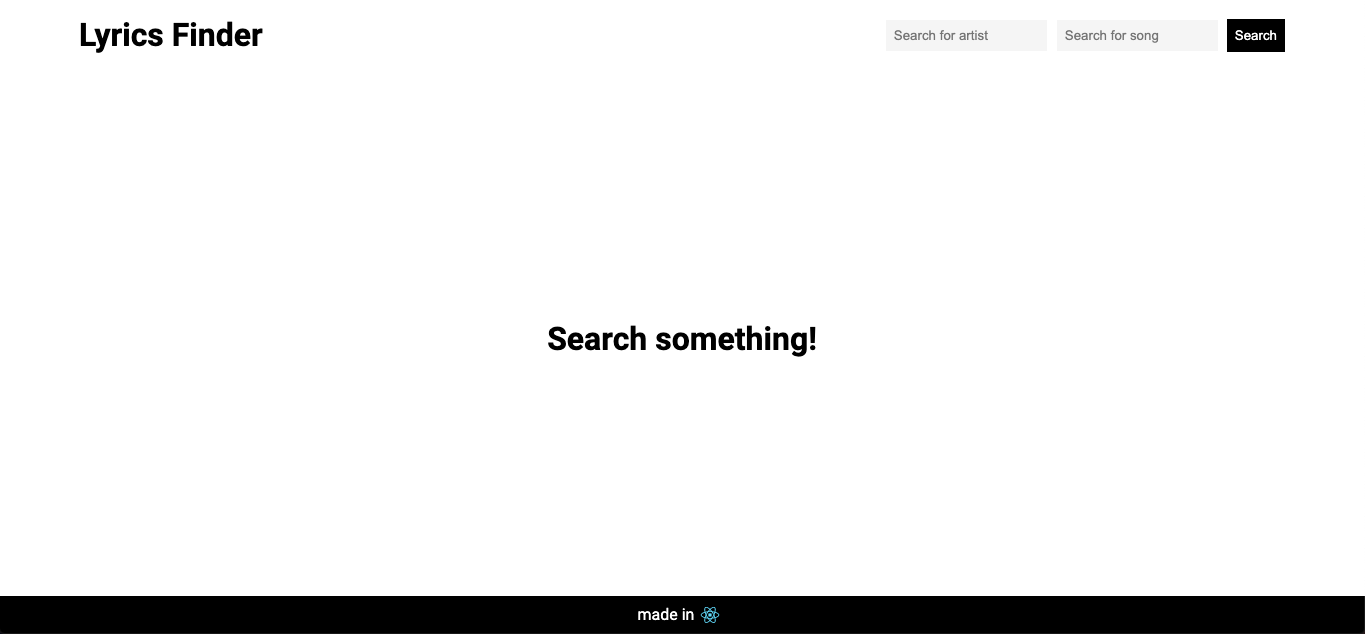
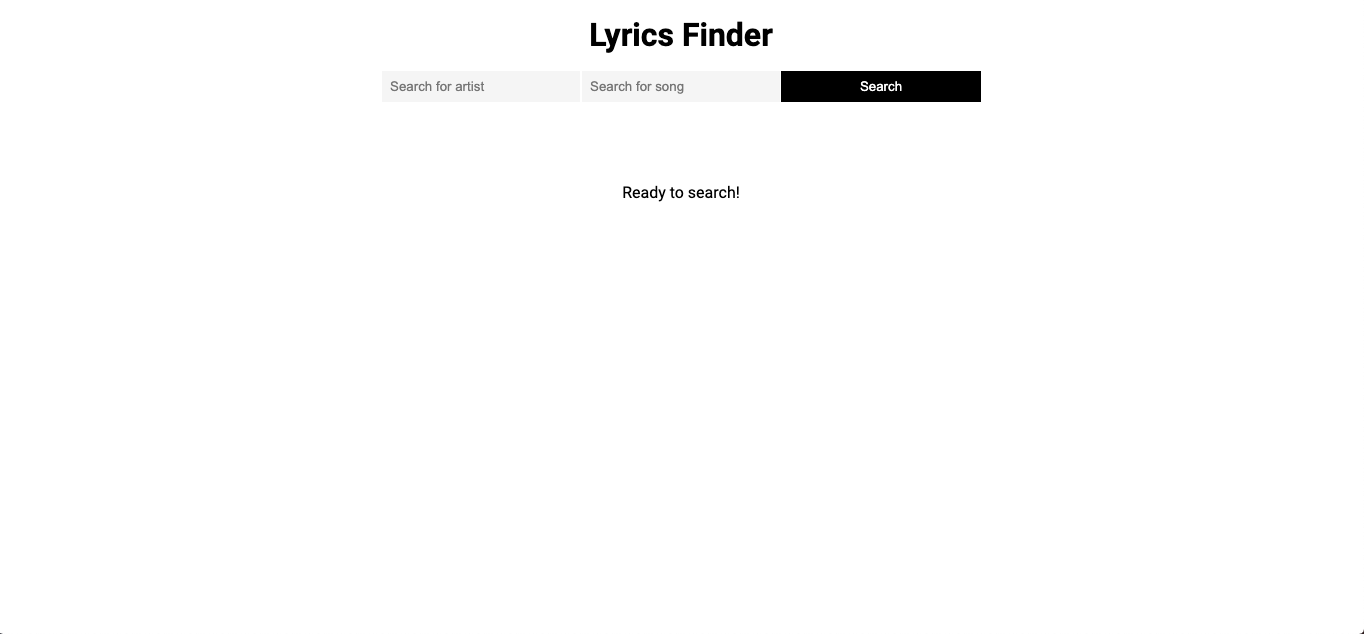
adding demo link in readme, changing screenshots, and styles

diff --git a/src/css/App.css b/src/css/App.css
@@ -17,26 +17,30 @@ html {
 body{
   font-family: 'Roboto', sans-serif;
 }
-
-.container{
-  padding: 1rem 5rem;
-  background-color: var(--main-bg-color);
-  height: 94vh;
+.app{
+  width: 100vw;
+  height: 100vh;
+  padding: 1rem;
 }
-/* HEADER */
-Header{
-  display: flex;
-  justify-content: space-between;
-  align-items: center;
+.center-txt{
+  text-align: center;
+}
+.center-txt p{
+  margin-top: 5rem;
+}
+h1,h2{
+  margin-bottom: 1rem;
+}
+img{
+  width: 100%;
+  border-radius: .5rem;
 }
 /* FORM */
-form{
-  display: flex;
-  gap: .5rem;
-}
+
 input{
   border: 0;
   padding: .5rem;
+  min-width: 200px;
 }
 input[type="search"]{
   background-color: var(--search-box-color);
@@ -53,122 +57,81 @@ input[type="submit"]{
 input[type="submit"]:hover{
   transform: scale(.9);
 }
-
-/* CONTENT */
-.content{
-  width: 100%;
-  height: 400px;
-  display: grid;
-  gap: .5rem;
-  grid-template-columns: repeat(2, 1fr);
-  align-items: center;
-  justify-items: center;
-  padding-top: 5rem;
-}
-.artist{
-  width: 100%;
-}
-.artist-content{
-  display: flex;
-  align-items: center;
-  gap: 1rem;
-  margin-top: 1rem;
-}
-.artist-content_image img{
-  border-radius: 2rem;
-  width: 300px;
-  height: auto;
-}
-.artist-content_info{
+/* ARTIST */
+.artist, .lyrics{
   display: flex;
   flex-direction: column;
-  height: 100%;
-  gap: 2.5rem;
+  align-items: center;
+  margin-top: .5rem;
+  padding-bottom: .5rem;
+}
+.artist-content_image{
+  width:200px;
+}
+/* hide information for small screens */
+.artist-content_info{
+  display: none;
 }
 .artist-content_info a{
   text-decoration: none;
   color: var(--black-color);
 }
 .artist-content_info a:hover{
-  background-color: var(--black-color);
-  color: var(--main-bg-color);
-  padding: .5rem;
+  color: crimson;
 }
+/* LYRICS */
 .lyrics{
-  width: 100%;
-  overflow-y: scroll;
-  height: 100%;
-  text-align: center;
+  padding: 1rem;
+  height: 400px;
+  background-color: var(--search-box-color);
+  border-radius: 2rem;
+  overflow-x: scroll;
 }
 .lyrics-wrap{
-  white-space: pre-wrap
-}
-.full{
-  display: flex;
-  justify-content: center;
-  align-items: center;
-  height: 90vh;
-}
-footer{
-  display: flex;
-  justify-content: center;
-  align-items: center;
-  background-color: var(--black-color);
-  color: var(--main-bg-color);
-  padding: 1rem;
-  height: 6vh;
-}
-.footer-logo{
-  width: 2rem;
+  white-space: pre-wrap;
 }
 
-/* MEDIA */
-@media (min-width: 300px) and (max-width: 900px) { 
-  .container{
-    padding: 1rem .2rem;
-  }
-  /* HEADER */
-  Header{
-    flex-direction: column;
-  }
-  form{
-    flex-direction: column;
-    gap: .2rem;
-  }
-  .content{
+/* MEDIA QUERIES TABLETS */
+@media (min-width: 768px){
+  .artist-content{
     width: 100%;
     display: flex;
-    flex-direction: column;
-    height: 70vh;
-    padding-top: 1rem;
-  }
-  .artist{
-    display: flex;
-    flex-direction: column;
-    align-items: center;
-  }
-  .artist h1{
-    font-size: 1.5rem;
-  }
-  .artist-content{
-    display: flex;
-    align-items: center;
     justify-content: center;
-    gap: 1rem;
-    margin-top: 1rem;
+    gap: 5rem;
   }
-  .artist-content_image img{
-    border-radius: 2rem;
-    width: 100px;
-    height: auto;
+  .artist-content_image{
+    width:250px;
   }
   .artist-content_info{
     display: flex;
     flex-direction: column;
-    height: 100%;
-    gap: .1rem;
+    justify-content: space-around;
   }
   .lyrics{
-    padding-top: 1rem;
+    height: 550px;
+  }
+}
+@media (min-width: 820px){
+  .lyrics{
+    height: 700px;
+  }
+}
+@media (min-width: 1024px){
+  .content{
+    margin-top: 1rem;
+    display: grid;
+    grid-template-columns: repeat(2, 1fr);
+    align-items: center;
+    height: 80vh;
+  }
+  .artist-content{
+    gap: 2rem;
+  }
+  .artist-content_image{
+    width: 350px;
+  }
+  .lyrics{
+    height: 450px;
+    overflow-x: hidden;
   }
 }

diff --git a/src/App.js b/src/App.js
@@ -1,6 +1,5 @@
 import React from "react";
 import Content from "./components/Content";
-import Footer from "./components/Footer";
 import Header from "./components/Header";
 import Loader from "./components/Loader";
 import "./css/App.css";
@@ -53,15 +52,14 @@ function App() {
 
   return (
     <div className="app">
-      <div className="container">
+      <div>
         <Header title="Lyrics Finder" handleSearch={handleSearch} />
         {loader ? (
-          <Loader className="content" />
+          <Loader />
         ) : (
           <Content search={search} artist={artistInfo} lyrics={songLyrics} />
         )}
       </div>
-      <Footer />
     </div>
   );
 }

diff --git a/src/components/Artist.jsx b/src/components/Artist.jsx
@@ -3,7 +3,7 @@ import React from "react";
 const Artist = ({ artist }) => {
   return (
     <div className="artist">
-      <h1>{artist.strArtist}</h1>
+      <h2>{artist.strArtist}</h2>
       <div className="artist-content">
         <div className="artist-content_image">
           <img src={artist.strArtistThumb} alt={artist.strArtist} />
@@ -23,7 +23,7 @@ const Artist = ({ artist }) => {
             {artist.intDiedYear === null ? "Present" : artist.intDiedYear}
           </p>
           <p>
-            <b>Website:</b>
+            <b>Website: </b>
             {artist.strWebsite ? (
               <a
                 href={`http://${artist.strWebsite}`}

diff --git a/src/components/Message.jsx b/src/components/Message.jsx
@@ -3,9 +3,9 @@ import SentimentVeryDissatisfiedIcon from "@mui/icons-material/SentimentVeryDiss
 
 const Message = ({ msg }) => {
   return (
-    <div>
+    <div className="center-txt">
       <SentimentVeryDissatisfiedIcon />
-      <p className="error">{msg}</p>
+      <p>{msg}</p>
     </div>
   );
 };

diff --git a/src/components/SearchSomething.jsx b/src/components/SearchSomething.jsx
@@ -3,8 +3,8 @@ import React from "react";
 class SearchSomething extends React.Component {
   render() {
     return (
-      <div className="full">
-        <h1>Search something!</h1>
+      <div className="center-txt">
+        <p>Ready to search!</p>
       </div>
     );
   }

diff --git a/src/components/Header.jsx b/src/components/Header.jsx
@@ -3,7 +3,7 @@ import SearchForm from "./SearchForm";
 
 const Header = ({ title, handleSearch }) => {
   return (
-    <header>
+    <header className="center-txt">
       <h1>{title}</h1>
       <SearchForm handleSearch={handleSearch} />
     </header>

diff --git a/src/components/Loader.jsx b/src/components/Loader.jsx
@@ -4,7 +4,7 @@ import "../css/loader.css";
 class Loader extends React.Component {
   render() {
     return (
-      <div className={"lds-ring content"}>
+      <div className={"lds-ring"}>
         <div></div>
         <div></div>
         <div></div>

diff --git a/src/components/SearchForm.jsx b/src/components/SearchForm.jsx
@@ -39,7 +39,7 @@ const SearchForm = (props) => {
   };
 
   return (
-    <div className="form">
+    <div>
       <form onSubmit={handleSubmit}>
         <input
           type="search"

diff --git a/src/css/loader.css b/src/css/loader.css
@@ -1,3 +1,9 @@
+.lds-ring {
+  display: flex;
+  justify-content: center;
+  align-items: center;
+  height: 80vh;
+}
 .lds-ring div {
   box-sizing: border-box;
   display: block;
